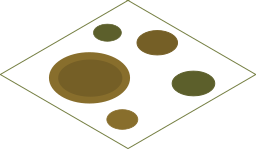
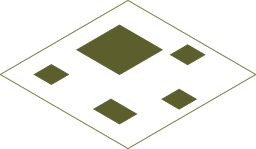
fixed sprites but dry grass is almost invisible

Changed region(s): [[0.125, 0.1611, 0.8438, 0.8859]]

diff --git a/test/map/isometric-depth.js b/test/map/isometric-depth.js
@@ -43,7 +43,7 @@ sheet = new WT.SpriteSheet("../../../res/img/grass");
 let grassSprites = new Array();
 for (let x = 0; x < 4; x++) {
   grassSprites.push(new WT.Sprite(sheet, x * spriteWidth, 0,
-                                  spriteWidth, spriteHeight));
+                                  spriteWidth, 148));
 }
 let grass = new WT.OssilateGraphicComponent(grassSprites, 333);
 WT.Terrain.addFeatureGraphics(WT.TerrainFeature.WetGrass, grass);
@@ -51,15 +51,15 @@ WT.Terrain.addFeatureGraphics(WT.TerrainFeature.WetGrass, grass);
 grassSprites = new Array();
 for (let x = 0; x < 4; x++) {
   grassSprites.push(new WT.Sprite(sheet, x * spriteWidth, 148,
-                                  spriteWidth, spriteHeight));
+                                  spriteWidth, 148));
 }
 grass = new WT.OssilateGraphicComponent(grassSprites, 333);
 WT.Terrain.addFeatureGraphics(WT.TerrainFeature.DryGrass, grass);
 
-//sheet = new WT.SpriteSheet("../../../res/img/mud");
-//let mudSprite = new WT.Sprite(sheet, 0, 0, spriteWidth, 149);
-//let mud = new WT.StaticGraphicComponent(mudSprite);
-//WT.Terrain.addFeatureGraphics(WT.TerrainFeature.Mud, mud);
+sheet = new WT.SpriteSheet("../../../res/img/mud");
+let mudSprite = new WT.Sprite(sheet, 0, 0, spriteWidth, 149);
+let mud = new WT.StaticGraphicComponent(mudSprite.id);
+WT.Terrain.addFeatureGraphics(WT.TerrainFeature.Mud, mud);
 
 window.onload = (event) => {
   console.log("loaded");

diff --git a/dist/terrain.js b/dist/terrain.js
@@ -505,7 +505,6 @@ export class TerrainBuilder {
             case Biome.Desert:
                 return TerrainType.Rock;
         }
-        console.log("default biome:", getBiomeName(surface.biome));
         console.assert(surface.biome == Biome.Water);
         return TerrainType.Water;
     }
@@ -756,7 +755,6 @@ export class TerrainBuilder {
                         surface.features |= TerrainFeature.DryGrass;
                     }
                     else if (surface.biome == Biome.Woodland) {
-                        surface.features |= TerrainFeature.Mud;
                     }
                 }
                 console.assert(surface.terrace <= this._terraces && surface.terrace >= 0, "terrace out-of-range", surface.terrace);

diff --git a/src/terrain.ts b/src/terrain.ts
@@ -619,7 +619,6 @@ export class TerrainBuilder {
       case Biome.Desert:
         return TerrainType.Rock;
     }
-    console.log("default biome:", getBiomeName(surface.biome));
     console.assert(surface.biome == Biome.Water);
     return TerrainType.Water;
   }
@@ -889,7 +888,6 @@ export class TerrainBuilder {
           } else if (surface.biome == Biome.Tundra) {
             surface.features |= TerrainFeature.DryGrass;
           } else if (surface.biome == Biome.Woodland) {
-            surface.features |= TerrainFeature.Mud;
           }
         }
         // Add terrain objects that will be visible.
